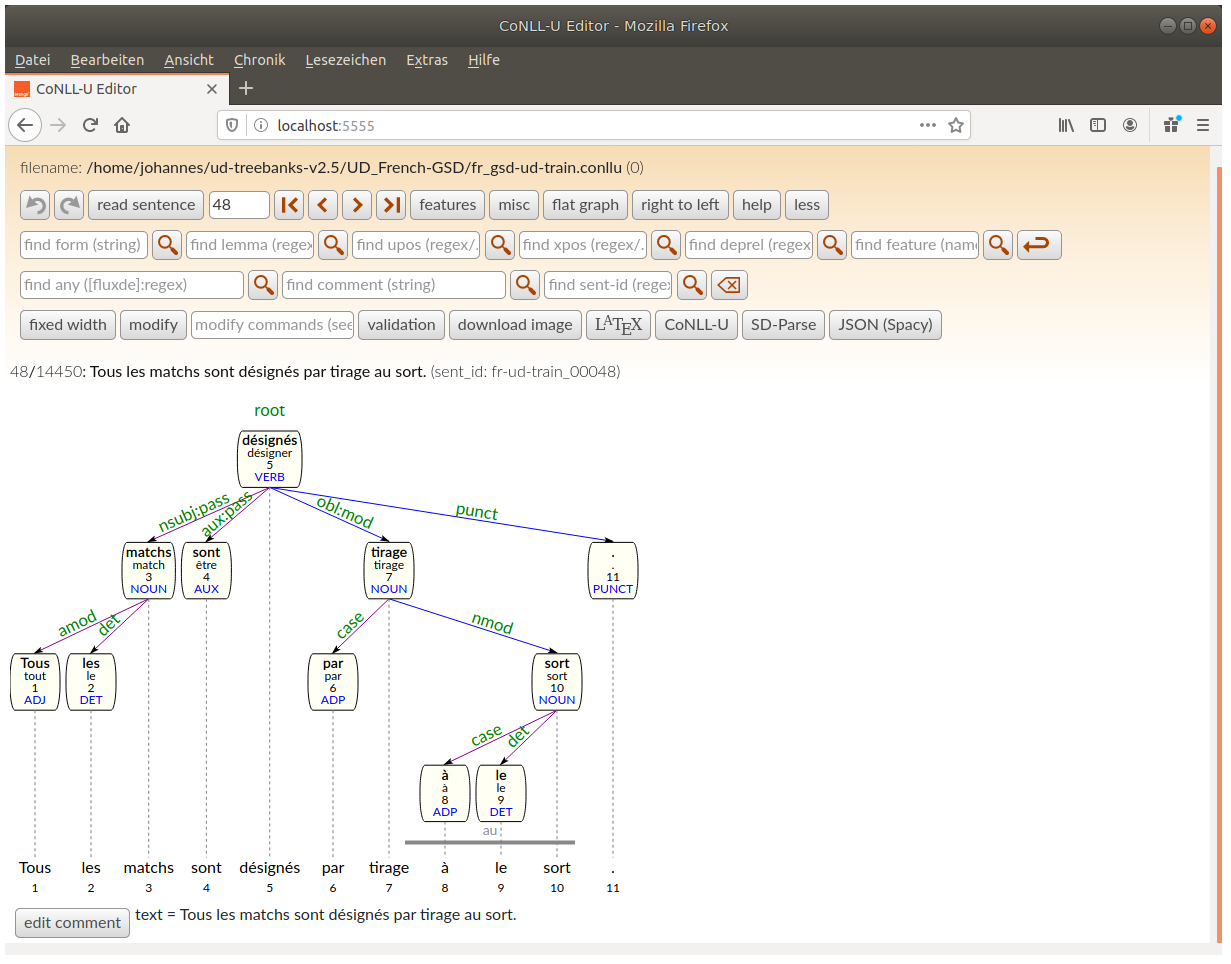
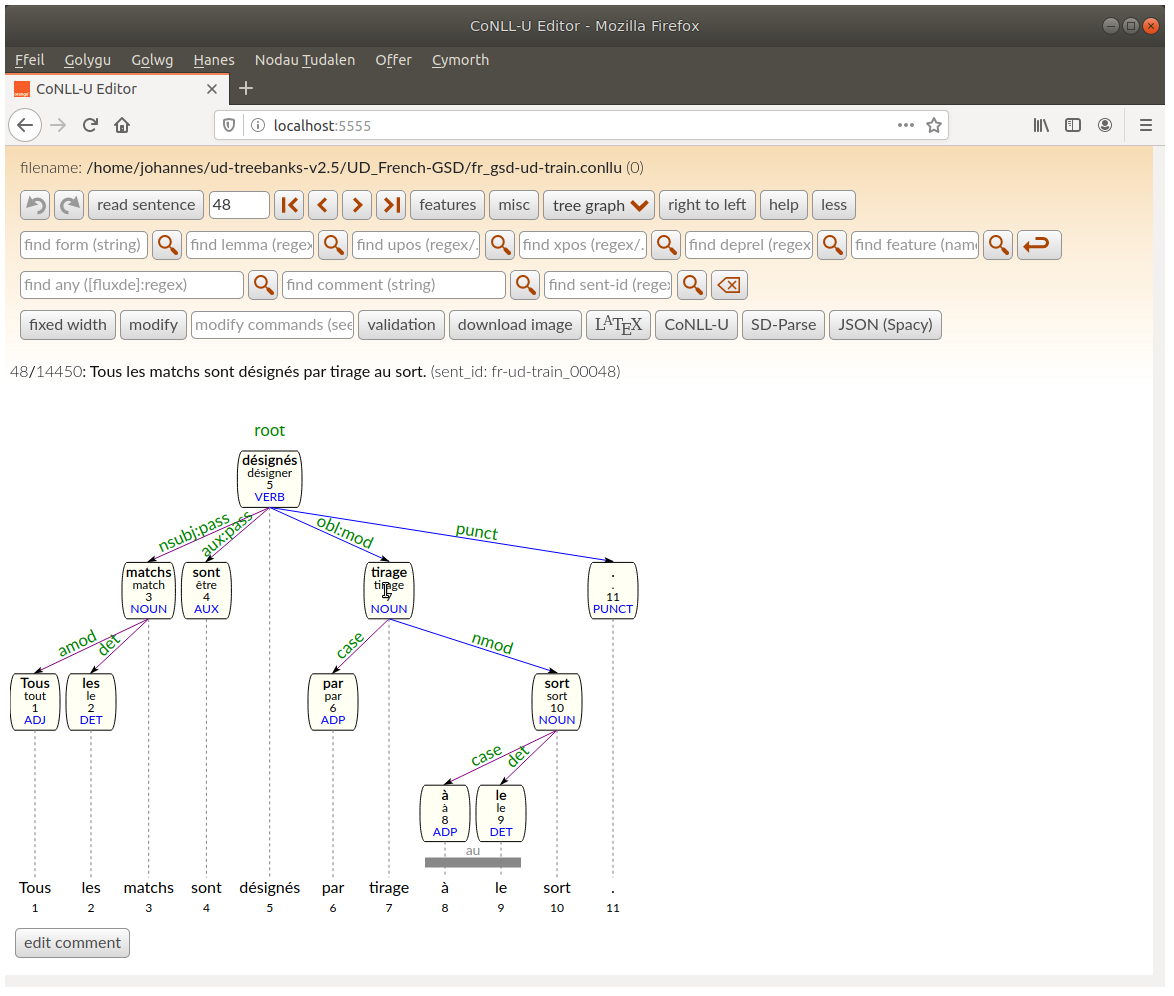
documentation updated

diff --git a/README.md b/README.md
@@ -158,7 +158,7 @@ Point your navigator to `http://localhost/conllueditor?port=8888` .
 * `--deprels <file>` comma separated list of files, containing valid dependency relation names (see https://github.com/UniversalDependencies/tools/tree/master/data/deprel.ud)
 * `--features <file>` comma separated list of files, containing valid feature=value pairs (see https://github.com/UniversalDependencies/tools/tree/master/data/feat_val.ud)
 in addition to feature=value pairs, a second type of lines is possible to define the list of features which are valid for a given UPOS: for instance `U:NOUN Gender Number Case`
-* `--validator <file>` validator configuration file (see section [validation](#Validation) below)
+* `--validator <file>` validator configuration file (see section [validation](#validation) below)
 * `--shortcuts <file>` list of shortcut definition (format, cf. [gui/shortcuts.json](gui/hortcuts.json))
 * `--debug <hex>` hex number to activate debug information of the server (printed to stderr)
 * `--saveAfter <number>` if given, the server saves/commits the changed file only after _number_ edits. To force saving the current state, click on the `save` button. Default value: 0.
@@ -185,10 +185,18 @@ it is shown in red.
 
 ![Edit screen (tree graph)](doc/tree.png)
 
-Clicking on `flat graph` changes the dependency graph layout to a more horizontal representation. The button `fixed width`
+The select button `tree graph` allows to toogle between a dependency tree layout to a more horizontal representation or a tabular view. 
+
+![Choose view](doc/chooseview.png)
+
+The button `fixed width`
 displays the tree/hedge width a (configurable) fixed word width.
 
 ![Edit screen (flat graph)](doc/graph.png)
+
+The table view is still *experimental*, all green fields can be edited:
+
+![Edit screen (flat graph)](doc/table.png)
 
 Word editing window (CTRL-click on the word). If UPOS/XPOS/deprels are given to the server,
 autocompletion is proposed
@@ -212,6 +220,7 @@ dependencies can be added/modified/deleted (activate `edit enhanced dependencies
 if the button `show basic in enhanced` is active, all enhanced dependency relations which are also a basic dependency, are displayed too.
 
 ![Empty nodes](doc/graph_emptynode.png)
+
 
 The buttons `CoNLL-U`, `LaTeX` and `SD-parse` open a window which contains the current sentence in the corresponding format.
 LaTeX output includes MWE units as well as enhanced dependencies. The `download` downloads the current image as a svg-file.
@@ -287,7 +296,7 @@ generates
 
 No semantic/plausability check is performed. E.g. 
 `bin/conlluconvert.sh <inputfile>  FORM,DEPREL,HEAD`
-will happily delete the `ID`column from the output file, so the `HEAD` columns does not make much sense anymore.
+will happily delete the `ID` column from the output file, so the `HEAD` columns does not make much sense anymore.
 
 ## Shortcuts
 ConlluEdit uses a file [gui/shortcuts.json](gui/hortcuts.json) which defines shortcuts to accelarate editing: These single letter keys change the UPOS/XPOS/deplabel of
